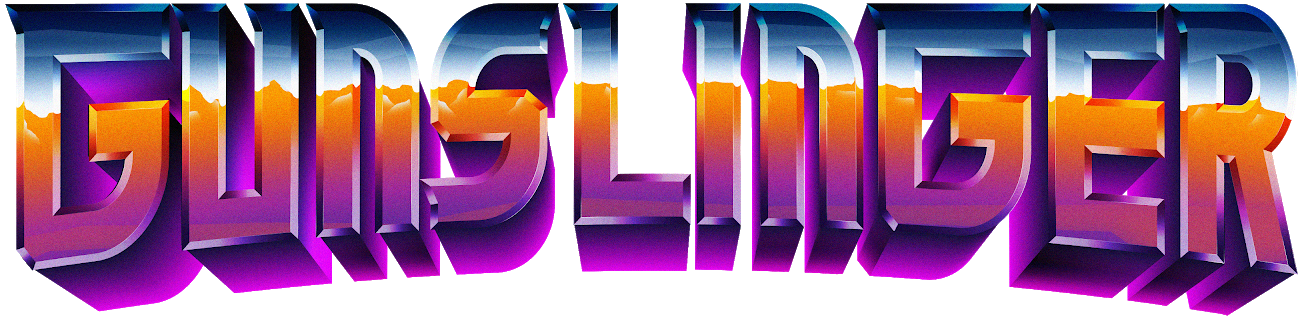
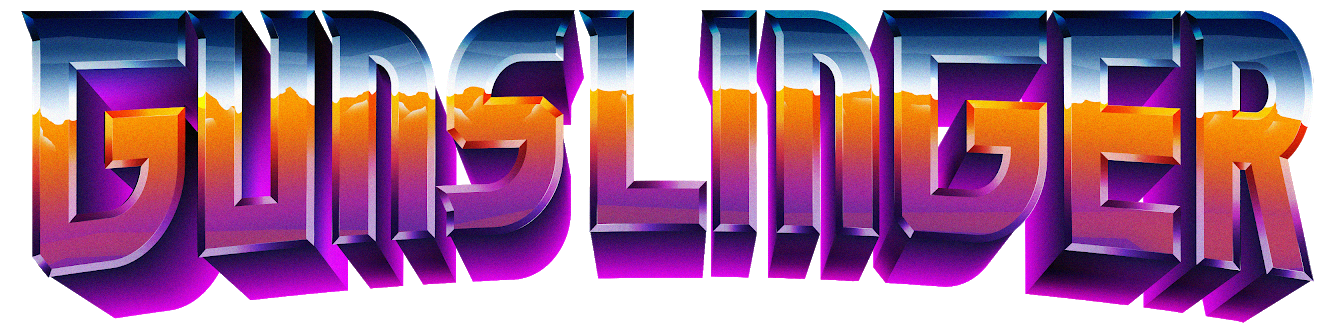
Modifie l'interface mobile et l'aspect du code de la partie sur Dekstop

diff --git a/JEU_ET_INTERFACE_Gunsligner/interface/index.html b/JEU_ET_INTERFACE_Gunsligner/interface/index.html
@@ -25,7 +25,7 @@
 <body>
 
 <section class="layout-game start-page wrap">
-    <img src="images/logo.png" alt="Logo Gunslinger">
+    <img src="images/logo.png" alt="Logo Gunslinger" class="main-logo">
     <div class="start-page-col1">
         <h1>Comment jouer?</h1>
         <p>Pour commencer la partie, recopiez le numéro de la partie qui est affiché sur l'écran du jeu. Une fois la
@@ -35,7 +35,7 @@
     <div class="inputNumber-group">
         <label for="codeJeu">Numéro de la partie</label>
         <input id="codeJeu" type="number" required="required">
-        <input id="codeJeuR" type="submit">
+        <input id="codeJeuR" type="submit" value="Confirmer">
     </div>
     <div class="btn-primary btn-p1 start-page-btn">Jouer</div>
 </section>

diff --git a/JEU_ET_INTERFACE_Gunsligner/interface/styles/styles.css b/JEU_ET_INTERFACE_Gunsligner/interface/styles/styles.css
@@ -11,6 +11,10 @@ html, body {
   box-sizing: border-box;
 }
 
+.main-logo {
+  max-width: 70%;
+}
+
 #codeJeu {
   background: #444D5D;
   border: none;
@@ -84,6 +88,11 @@ img {
 .btn-primary .btn-p1 {
   background: linear-gradient(96.63deg, #E600D8 0%, #711C91 100%);
   height: 100px;
+}
+
+.start-page-btn {
+  background-size: 200px 110px !important;
+  z-index: 100;
 }
 
 .btn-p1 {

diff --git a/JEU_ET_INTERFACE_Gunsligner/jeu/styles/styles.css b/JEU_ET_INTERFACE_Gunsligner/jeu/styles/styles.css
@@ -2,6 +2,14 @@ body {
     font-family: "DM Sans", sans-serif;
 }
 
+input {
+    -webkit-appearance: none;
+}
+
+.chiffre {
+    margin: 0;
+}
+
 .numero {
     background-color: #5D6A7F;
 }
@@ -59,8 +67,8 @@ canvas {
     height: 100%;
 }
 
-.info div  {
-margin: 15px;
+.info div {
+    margin: 15px;
 }
 
 .gif1 {
